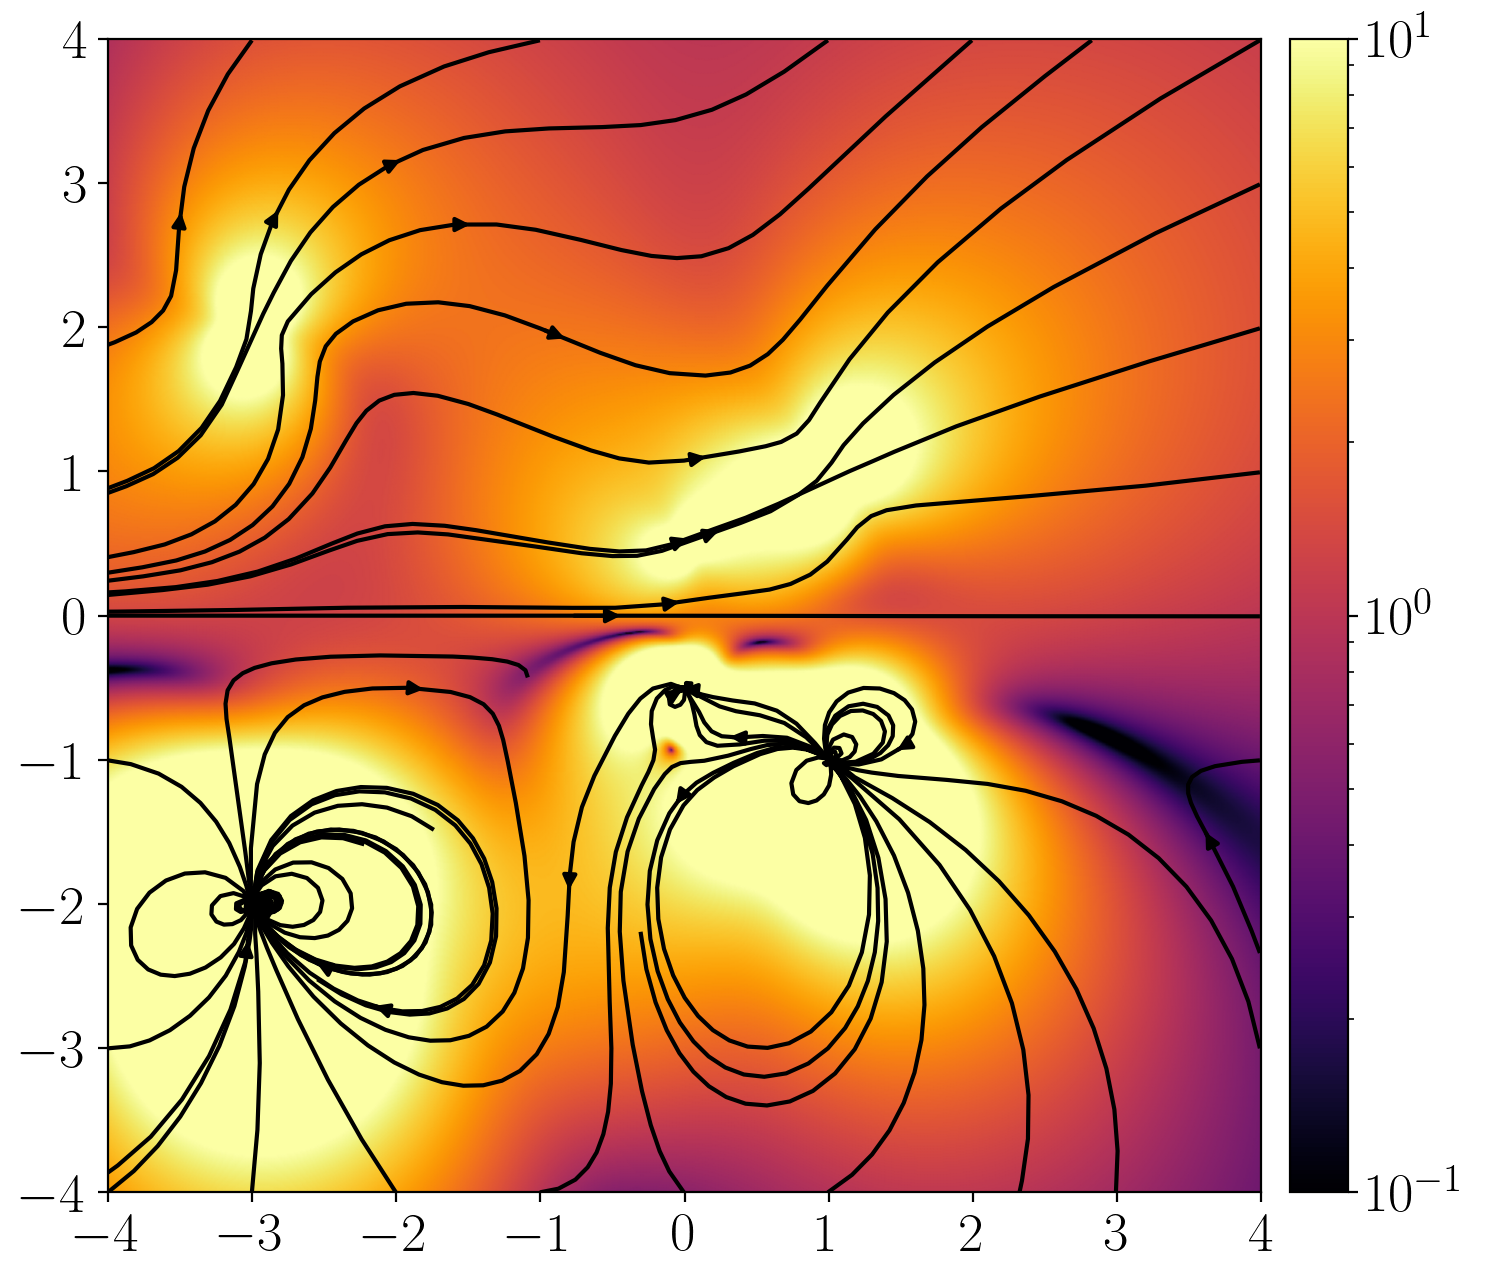
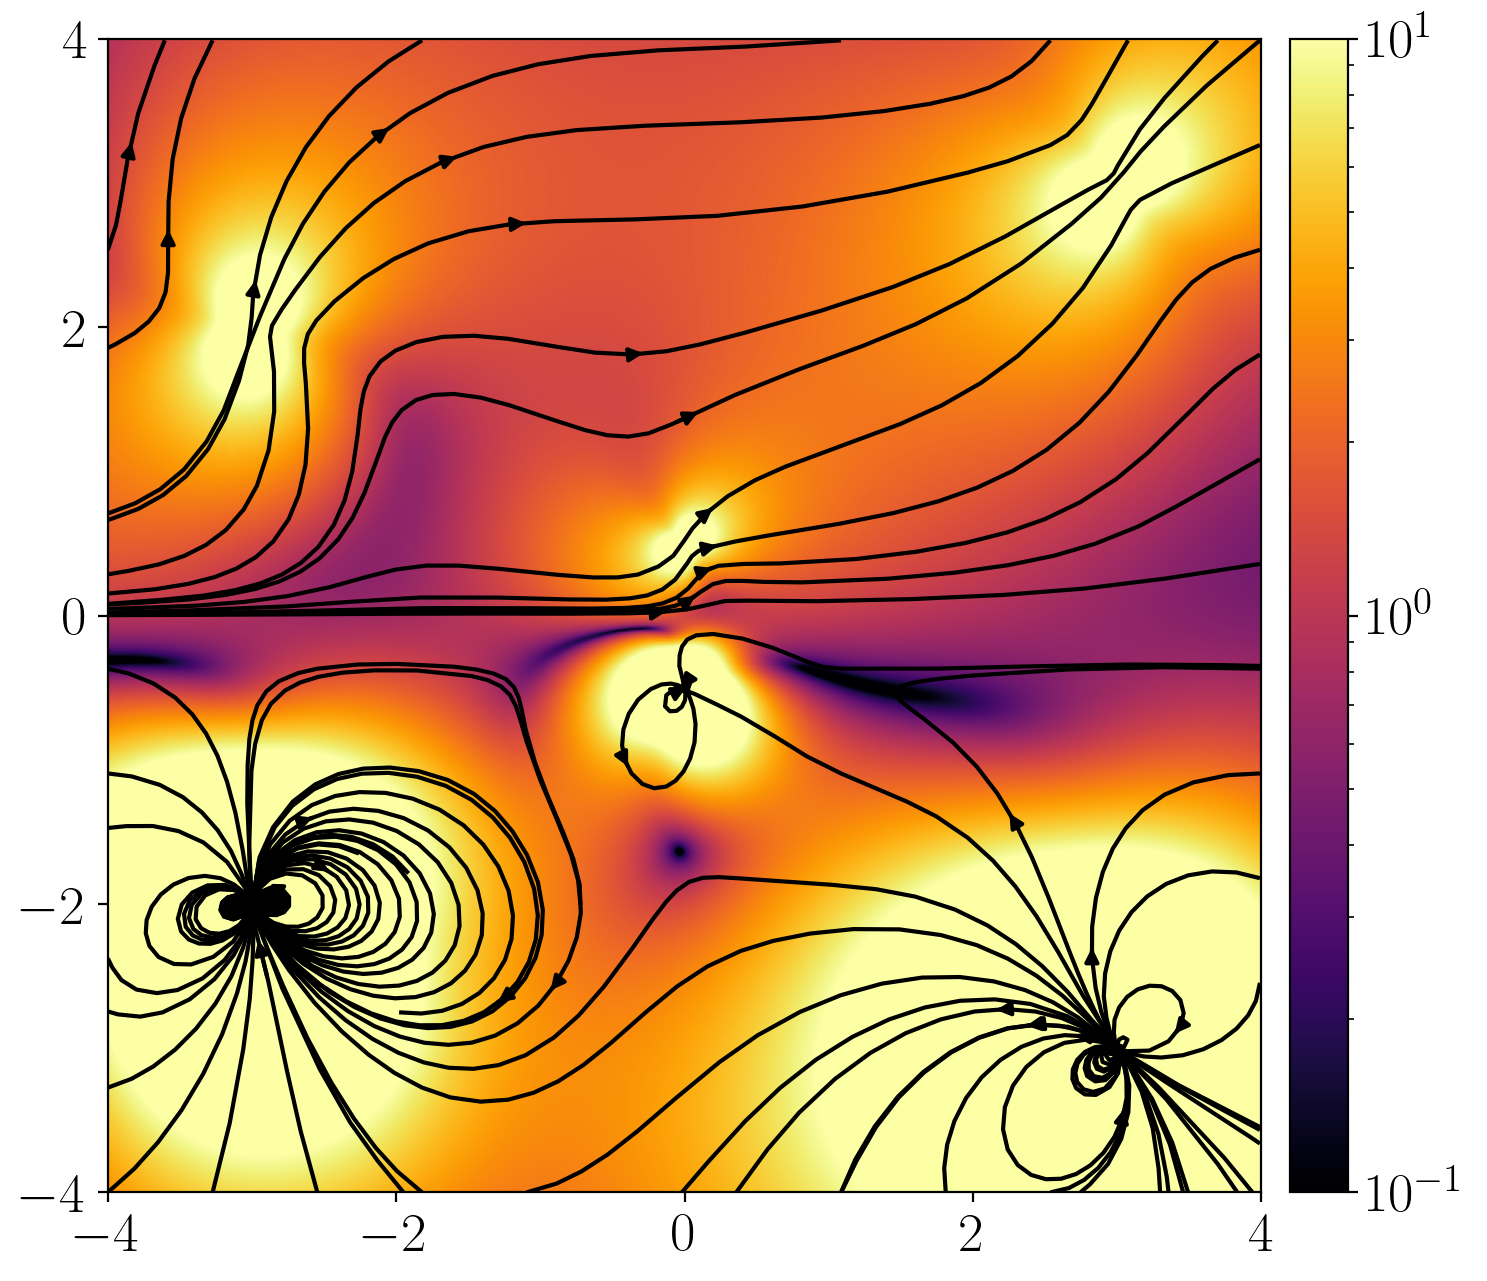
7.07
vol 2

diff --git a/MicroWorld/main.py b/MicroWorld/main.py
@@ -1,12 +1,13 @@
 import numpy as np
 import Stokes_2D
-r01 = np.array([-2, 2.0001]) #defining positions of the force
-F = np.array([1, 1])
-r02 = np.array([1.5, 2.0001])
-r03 = np.array([3, 2.0001])
-singularity1 = Stokes_2D.Equations2D(-4, 4, 0.01, "wall") #creating an object
-singularity1.totality_par(r01, -F, 3)
-singularity1.totality_par(r02, F, 3)
-singularity1.totality_par(r03, -F, 3)
-singularity1.plot(title="example2_par_wall.png")
+r01 = np.array([0, 0.5001]) #defining positions of the force
+F1 = np.array([1, 1]) #defining forces values
+r02 = np.array([3.0001, 3.0001]) #defining positions of the force
+F2 = np.array([2, 2]) #defining forces values
+r03 = np.array([-3, 2.0001]) #defining positions of the force
+F3 = np.array([0.5, 3])
+singularity1 = Stokes_2D.Equations2D(-4, 4, 0.13, "free") #creating an object
+singularity1.totality_per(r01, F1, 3) #ok
+
+singularity1.plot() #plotting and saving
 singularity1.show() #showing plot
